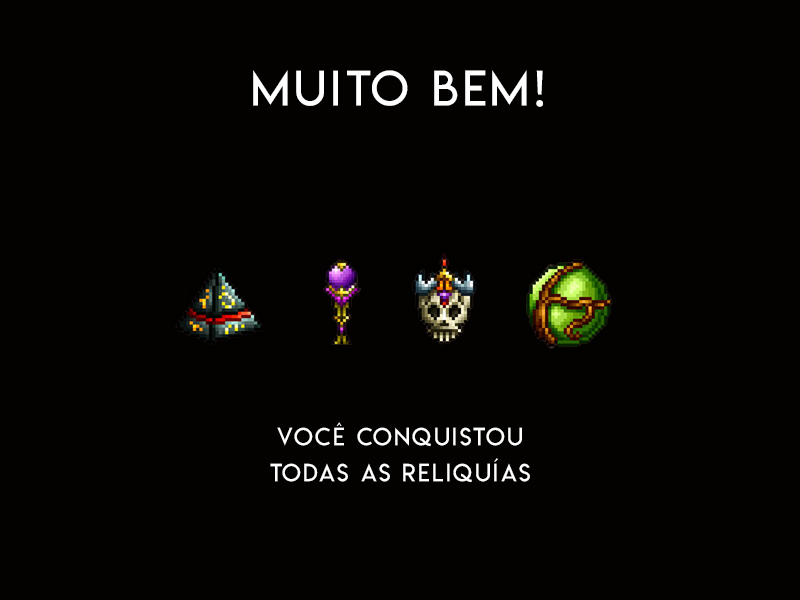
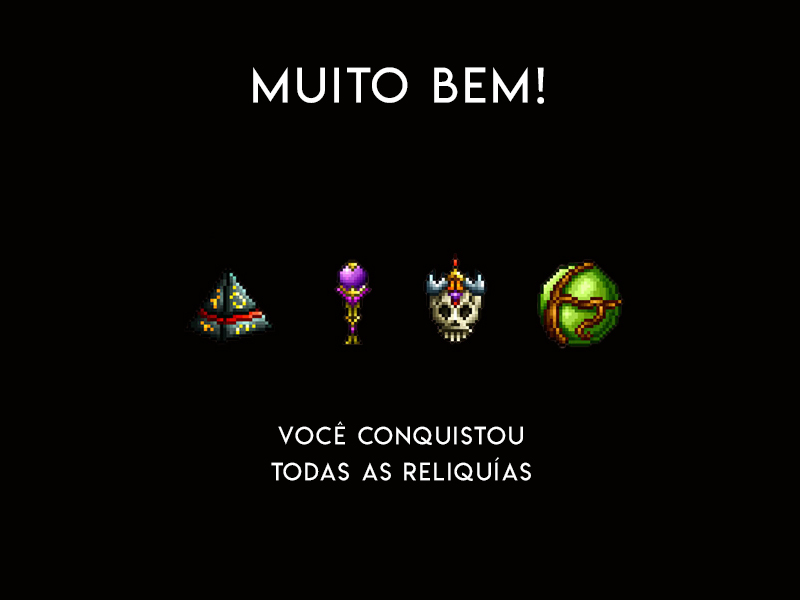
ultimas alterações em telas, inclusive a de sucesso

diff --git a/src/main/java/com/grupo1/asreliquiasmatematicas/ui/TelaSucesso.java b/src/main/java/com/grupo1/asreliquiasmatematicas/ui/TelaSucesso.java
@@ -66,15 +66,16 @@ public class TelaSucesso extends javax.swing.JFrame {
 
         jPanel1.setLayout(new org.netbeans.lib.awtextra.AbsoluteLayout());
 
-        jButton1.setText("Voltar para a encruzilhada");
+        jButton1.setIcon(new javax.swing.ImageIcon(getClass().getResource("/placavoltarencru.png"))); // NOI18N
+        jButton1.setContentAreaFilled(false);
         jButton1.addActionListener(new java.awt.event.ActionListener() {
             public void actionPerformed(java.awt.event.ActionEvent evt) {
                 jButton1ActionPerformed(evt);
             }
         });
-        jPanel1.add(jButton1, new org.netbeans.lib.awtextra.AbsoluteConstraints(340, 520, -1, -1));
+        jPanel1.add(jButton1, new org.netbeans.lib.awtextra.AbsoluteConstraints(310, 500, -1, -1));
 
-        lblsuc4.setIcon(new javax.swing.ImageIcon(getClass().getResource("/VV5.jpg"))); // NOI18N
+        lblsuc4.setIcon(new javax.swing.ImageIcon(getClass().getResource("/vv6.jpg"))); // NOI18N
         jPanel1.add(lblsuc4, new org.netbeans.lib.awtextra.AbsoluteConstraints(0, 0, -1, -1));
 
         lblsuc3.setIcon(new javax.swing.ImageIcon(getClass().getResource("/VV3.jpg"))); // NOI18N

diff --git a/src/main/java/com/grupo1/asreliquiasmatematicas/ui/TelaGameOver.java b/src/main/java/com/grupo1/asreliquiasmatematicas/ui/TelaGameOver.java
@@ -32,14 +32,14 @@ public class TelaGameOver extends javax.swing.JFrame {
         setDefaultCloseOperation(javax.swing.WindowConstants.EXIT_ON_CLOSE);
         getContentPane().setLayout(new org.netbeans.lib.awtextra.AbsoluteLayout());
 
-        jButton1.setIcon(new javax.swing.ImageIcon(getClass().getResource("/VOLTARENCRU.jpg"))); // NOI18N
+        jButton1.setIcon(new javax.swing.ImageIcon(getClass().getResource("/plaquinhagameover.png"))); // NOI18N
         jButton1.setContentAreaFilled(false);
         jButton1.addActionListener(new java.awt.event.ActionListener() {
             public void actionPerformed(java.awt.event.ActionEvent evt) {
                 jButton1ActionPerformed(evt);
             }
         });
-        getContentPane().add(jButton1, new org.netbeans.lib.awtextra.AbsoluteConstraints(160, 480, -1, -1));
+        getContentPane().add(jButton1, new org.netbeans.lib.awtextra.AbsoluteConstraints(310, 470, -1, -1));
 
         jLabel1.setIcon(new javax.swing.ImageIcon(getClass().getResource("/telagameover.jpg"))); // NOI18N
         jLabel1.setToolTipText("");

diff --git a/src/main/java/com/grupo1/asreliquiasmatematicas/Game.java b/src/main/java/com/grupo1/asreliquiasmatematicas/Game.java
@@ -17,7 +17,7 @@ public class Game {
     public boolean reliquiaLeste = true;
     public boolean reliquiaNorte = true;
     public boolean reliquiaSul = true;
-    public boolean reliquiaOeste = true; 
+    public boolean reliquiaOeste = true;  
 //    COLOCAR TUDO FALSE NO FUNCIONAMENTO DO JOGO
 
 }
